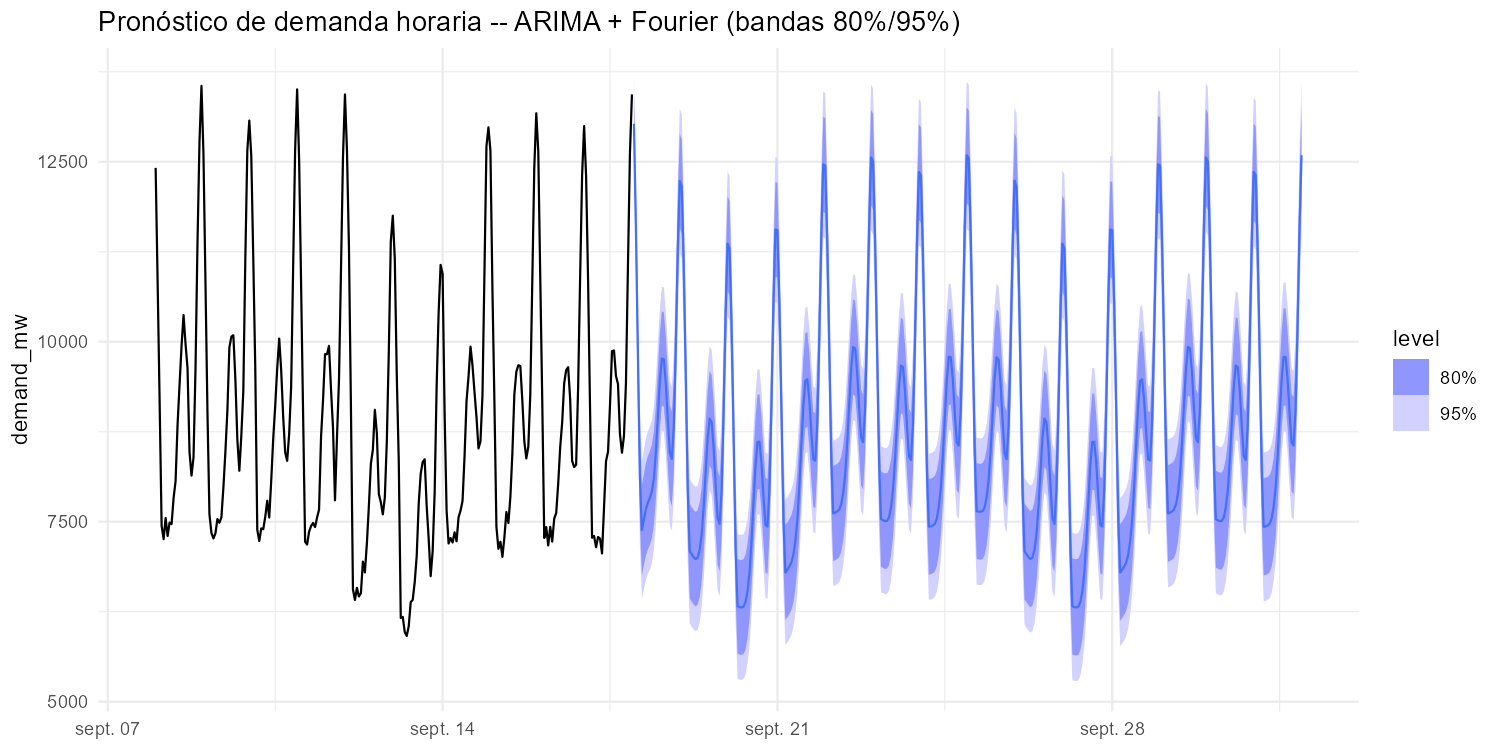
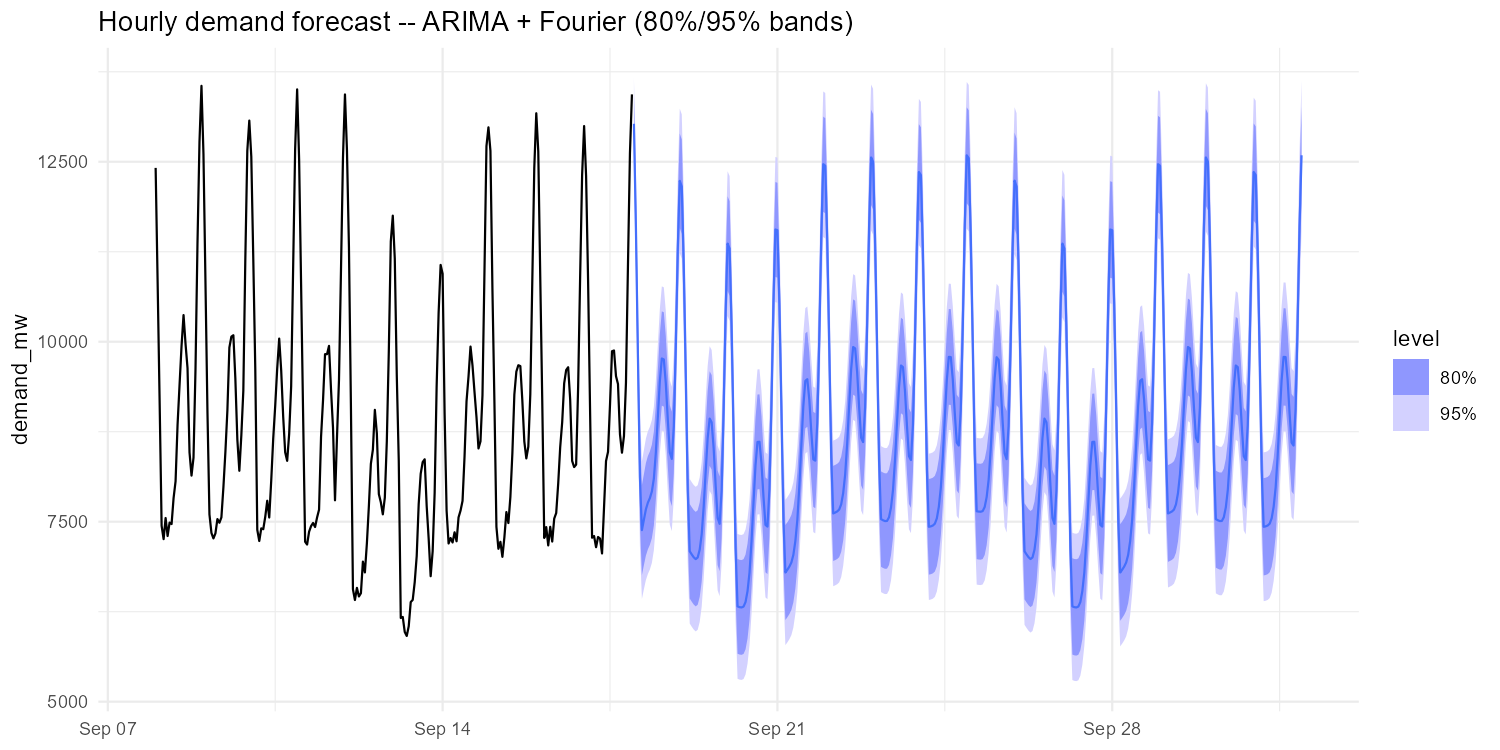
fix: English figure labels, and pin the date locale that was leaking through them
README.md is the document GitHub shows by default and both language versions
embed the same PNGs, so the figures were inconsistent with their primary
reader: titles, subtitles and axis labels were all in Spanish.

Translating the strings only got half of it. The date axis is formatted by
ggplot2 using the generating machine's locale, so on this es-CL install it kept
rendering "sept. 21" no matter what the title said. Both plotting scripts now
pin Sys.setlocale("LC_TIME", "C"), which is the same class of leak that
invariant formatting prevents in file I/O -- output that silently depends on
who ran it.

All twelve figures regenerated from the saved models and data, so the numbers
are unchanged; the TBATS residual ACF at lag 24 reproduces at 0.1588 again,
consistent with the correction made earlier. Both READMEs gain a short note so
that someone regenerating on a Spanish-locale machine knows why their output
would otherwise differ.

diff --git a/README.es.md b/README.es.md
@@ -371,6 +371,8 @@ Diez días de contexto de entrenamiento seguidos de catorce pronosticados. El mo
 
 Todos los gráficos viven en `output/figures/`, generados por `R/04_stl_decomposition.R` y `R/09_generate_plots.R`:
 
+**Una nota para quien regenere estos gráficos.** Los rótulos están en inglés porque `README.md` es el documento que GitHub muestra por defecto y las dos versiones del README incrustan los mismos PNG. El eje de fechas necesitó más que traducir cadenas: `ggplot2` lo formatea con el locale de la máquina que genera, así que en una instalación `es-CL` salía como `sept. 21`. Los dos scripts de graficado ahora fijan `Sys.setlocale("LC_TIME", "C")` — la misma clase de fuga que el formateo invariante evita en el I/O de archivos.
+
 - `stl_decomposition.png` -- descomposición tendencia + estacional diaria + estacional semanal + remanente
 - `demand_two_week_zoom.png` -- detalle de 2 semanas (la descomposición completa a 2 años de resolución horaria se ve como una banda sólida; este gráfico muestra la forma real de doble punta)
 - `stl_acf_demand.png`, `stl_acf_remainder.png`, `stl_pacf_demand.png` -- ACF/PACF

diff --git a/README.md b/README.md
@@ -371,6 +371,8 @@ Ten days of training context followed by fourteen days forecast. The model keeps
 
 All figures live in `output/figures/`, produced by `R/04_stl_decomposition.R` and `R/09_generate_plots.R`:
 
+**A note for anyone regenerating these.** The figure labels are in English because `README.md` is the document GitHub shows by default and both language versions embed the same PNGs. The date axis needed more than translating strings: `ggplot2` formats it with the generating machine’s locale, so on an `es-CL` install it came out as `sept. 21`. Both plotting scripts now pin `Sys.setlocale("LC_TIME", "C")` — the same class of leak that invariant formatting prevents in file I/O.
+
 - `stl_decomposition.png` -- trend + daily seasonal + weekly seasonal + remainder decomposition
 - `demand_two_week_zoom.png` -- 2-week detail (the full decomposition at 2 years of hourly resolution looks like a solid band; this plot shows the actual double-peak shape)
 - `stl_acf_demand.png`, `stl_acf_remainder.png`, `stl_pacf_demand.png` -- ACF/PACF
